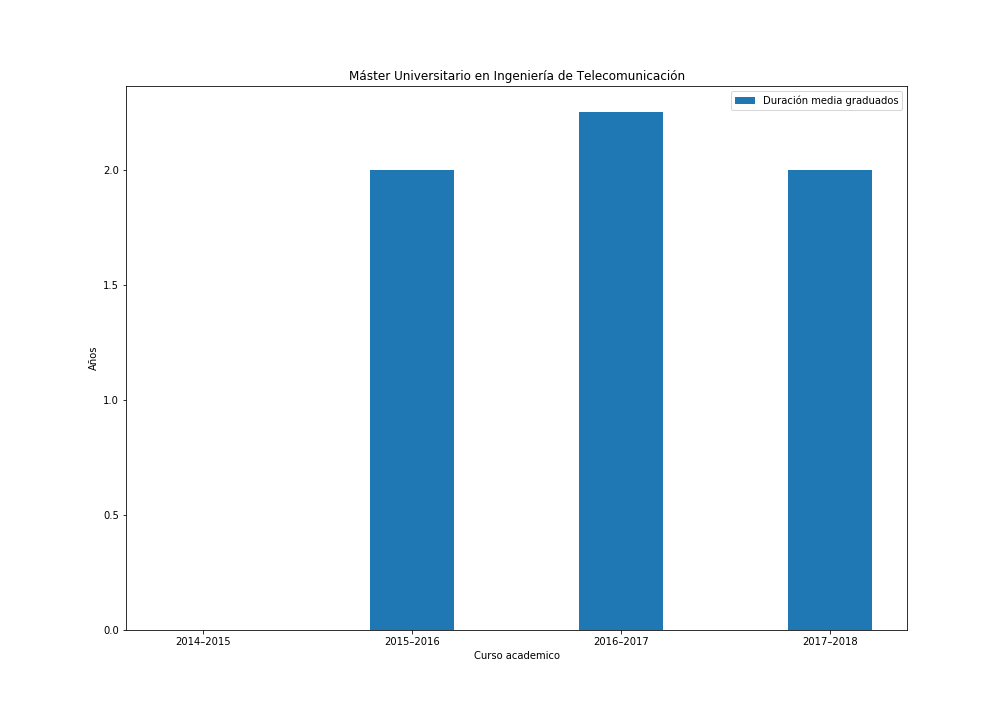
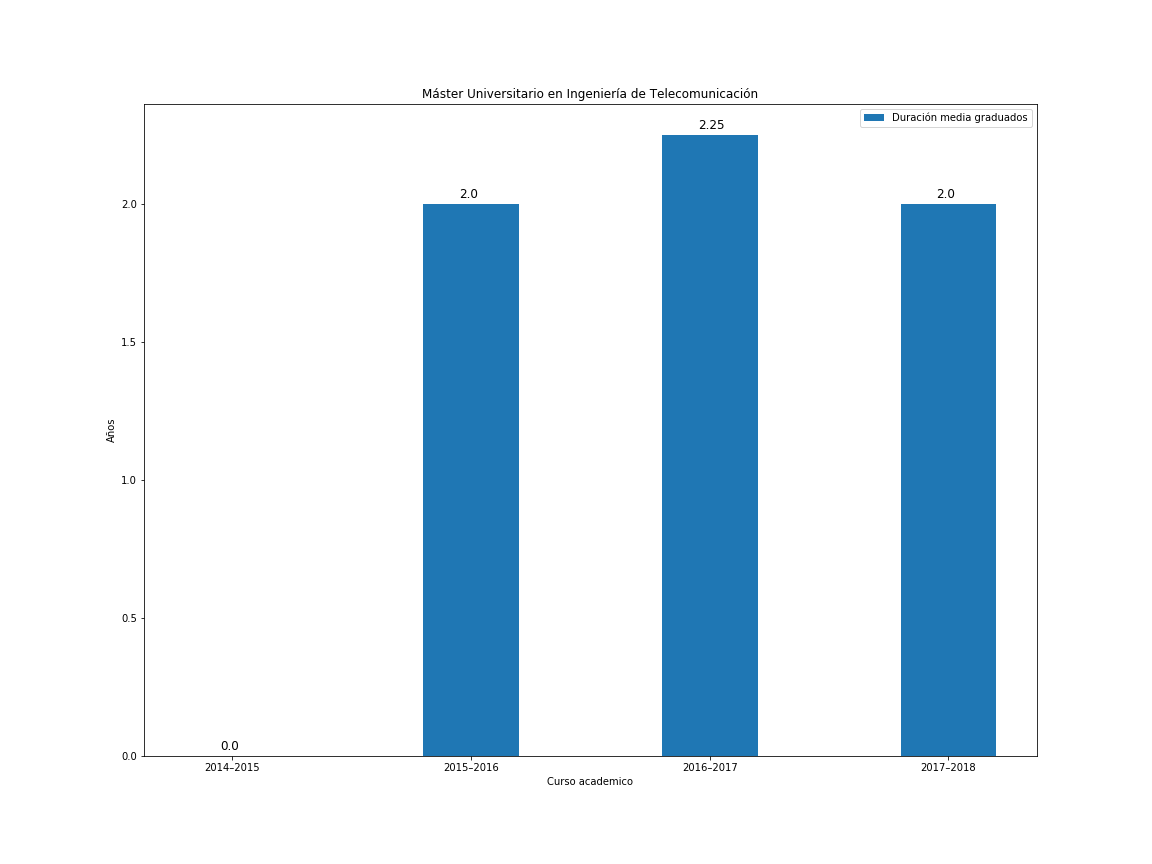
New plot with some rates

diff --git a/unizar_scrapper.py b/unizar_scrapper.py
@@ -14,8 +14,8 @@ import numpy as np
 # Get current size
 fig_size = plt.rcParams["figure.figsize"]
 # Set figure width
-fig_size[0] = 14
-fig_size[1] = 10
+fig_size[0] = 16
+fig_size[1] = 12
 plt.rcParams["figure.figsize"] = fig_size
 
 def parse_table_html(table):
@@ -89,8 +89,14 @@ indx = np.arange(len(ofertadas))
 width=0.2
 plt.figure()
 plt.bar(indx - width,ofertadas, width = width)
-plt.bar(indx + width,nuevo_ingreso, width = width)
 plt.bar(indx,matriculados, width = width)
+plt.bar(indx + width,nuevo_ingreso, width = width)
+
+for i in range(len(ofertadas)):
+    plt.text(indx[i] - width - 0.04, ofertadas[i] + 0.3, str(ofertadas[i]))
+    plt.text(indx[i] + width - 0.04, nuevo_ingreso[i] + 0.3, str(nuevo_ingreso[i]))
+    plt.text(indx[i] - 0.04, matriculados[i] + 0.3 , str(matriculados[i]))
+
 plt.gca().set_xticklabels(labels)
 plt.title(titulacion)
 plt.xlabel("Curso academico")
@@ -106,9 +112,8 @@ table_parsed = next(iterate_list)
 table_parsed = next(iterate_list)
 
 #Esta lista contiene duracion media graduados
-table_parsed = next(iterate_list).replace("",0)
+table_parsed = next(iterate_list).replace("","0")
 labels =  table_parsed.loc[1:,0].values
-print(labels)
 duracion_media = np.array(table_parsed.loc[1:,1].values, dtype = np.float)
 
 indx = np.arange(len(duracion_media))
@@ -116,6 +121,10 @@ indx = np.arange(len(duracion_media))
 width=0.4
 plt.figure()
 plt.bar(indx,duracion_media, width = width)
+
+for i in range(len(duracion_media)):
+    plt.text(indx[i] - 0.05, duracion_media[i] + 0.02, str(duracion_media[i]), size = 12)
+
 plt.xticks(indx)
 plt.gca().set_xticklabels(labels)
 plt.title(titulacion)
@@ -124,3 +133,33 @@ plt.ylabel("Años")
 plt.legend(["Duración media graduados"])
 
 plt.savefig("figures_examples/fig_duracion_graduados.png")
+
+
+#Esta tabla contiene tasa de exito, rendimiento y eficiencia
+table_parsed = next(iterate_list).replace("","0")
+
+labels =  table_parsed.loc[1:,0].values
+exito = np.array(table_parsed.loc[1:,1].values, dtype = np.float)
+rendimiento = np.array(table_parsed.loc[1:,2].values, dtype = np.float)
+eficiencia = np.array(table_parsed.loc[1:,3].values, dtype = np.float)
+
+indx = np.arange(len(exito))
+width=0.2
+plt.figure()
+plt.bar(indx - width,exito, width = width)
+plt.bar(indx,rendimiento, width = width)
+plt.bar(indx + width,eficiencia, width = width)
+
+for i in range(len(exito)):
+    plt.text(indx[i] - width - 0.08, exito[i] + 0.4, str(exito[i]) + "%", size=9)
+    plt.text(indx[i] - 0.08 , rendimiento[i] + 0.4, str(rendimiento[i]) + "%", size=9)
+    plt.text(indx[i] + width - 0.08 , eficiencia[i] + 0.4, str(eficiencia[i]) + "%", size=9)
+
+plt.xticks(indx)
+plt.gca().set_xticklabels(labels)
+plt.title(titulacion)
+plt.xlabel("Curso academico")
+plt.ylabel("Porcentaje (%)")
+plt.legend(["Exito","Rendimiento","Eficiencia"], loc = 'lower right')
+
+plt.savefig("figures_examples/fig_tasas.png")
